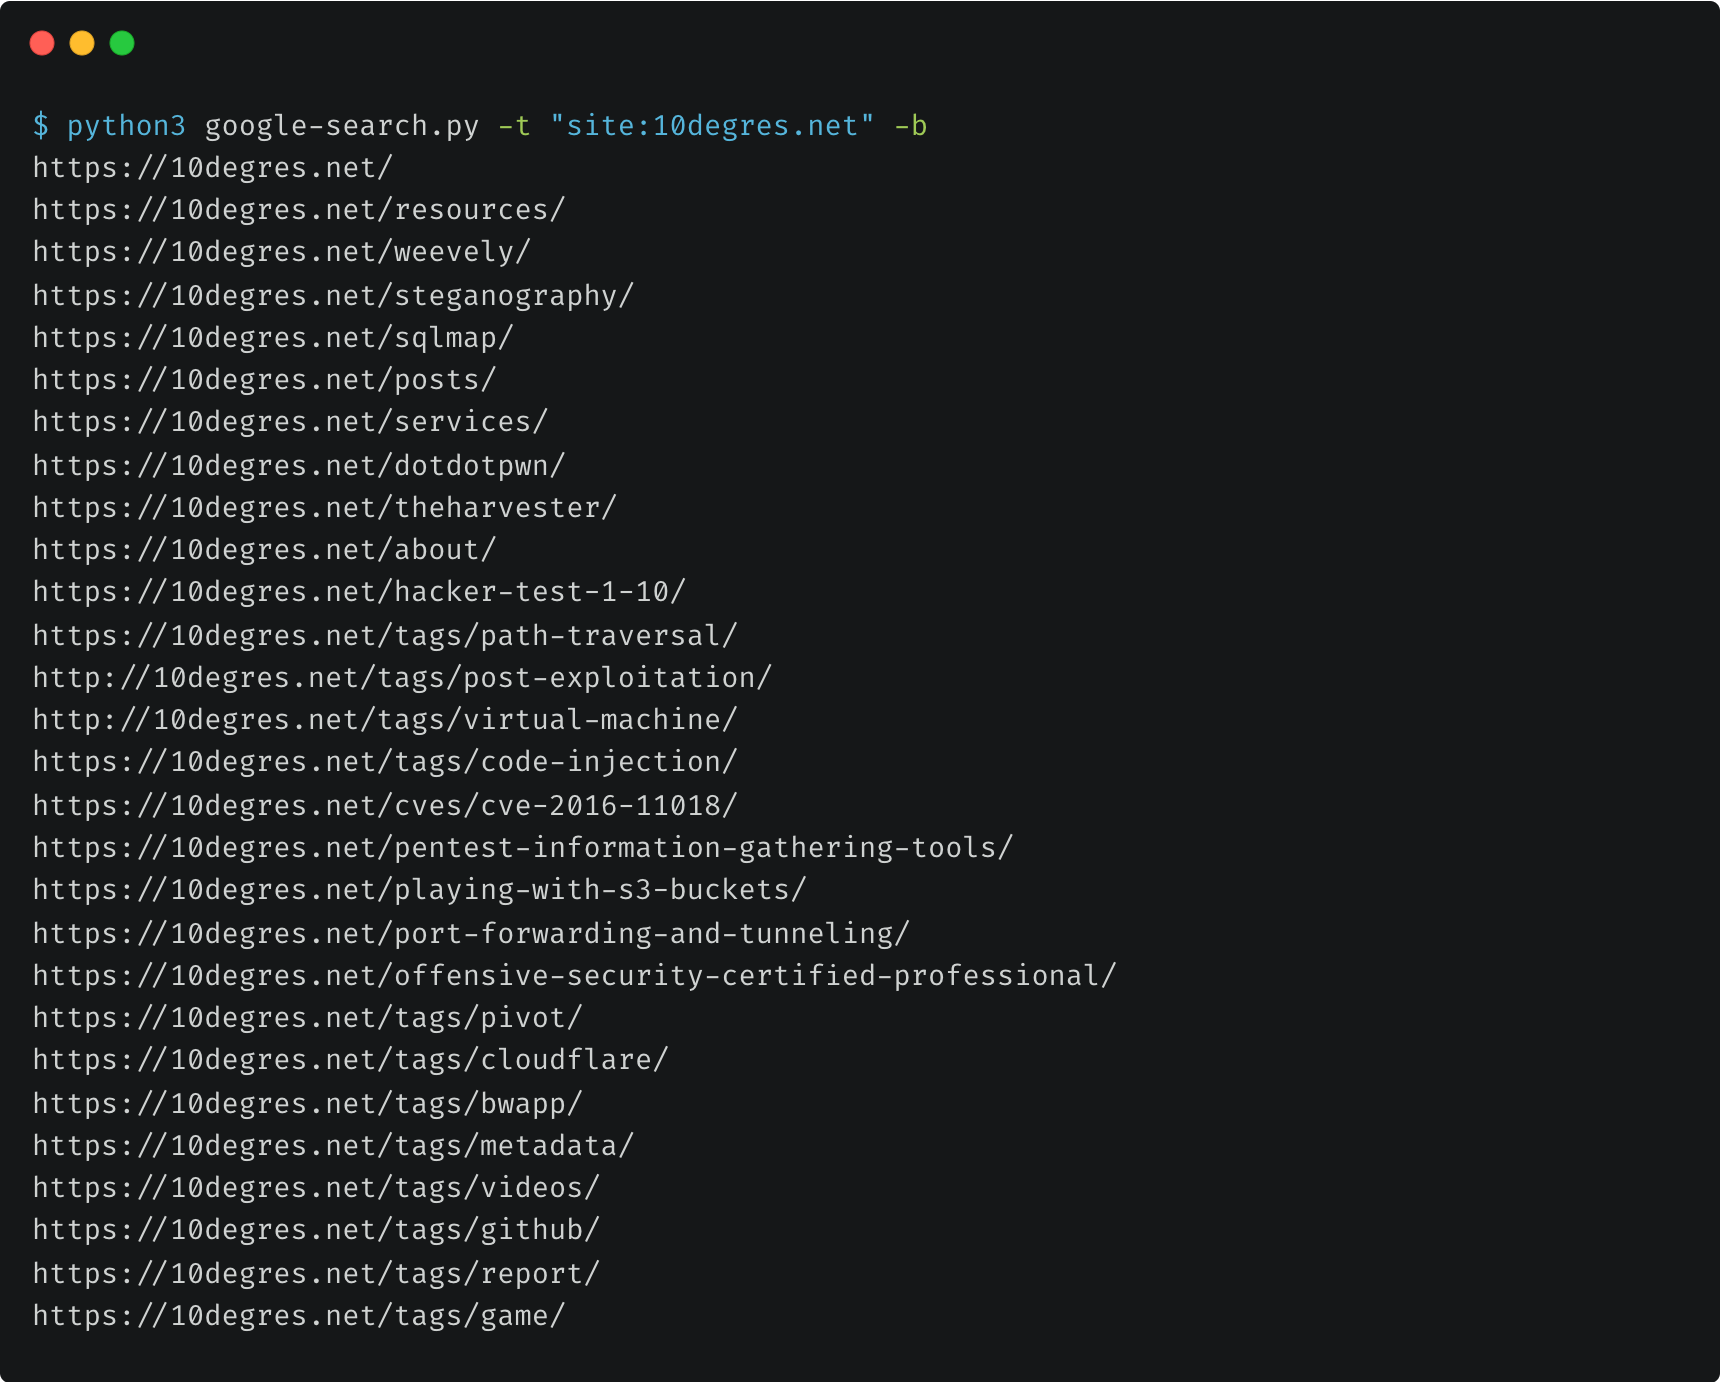
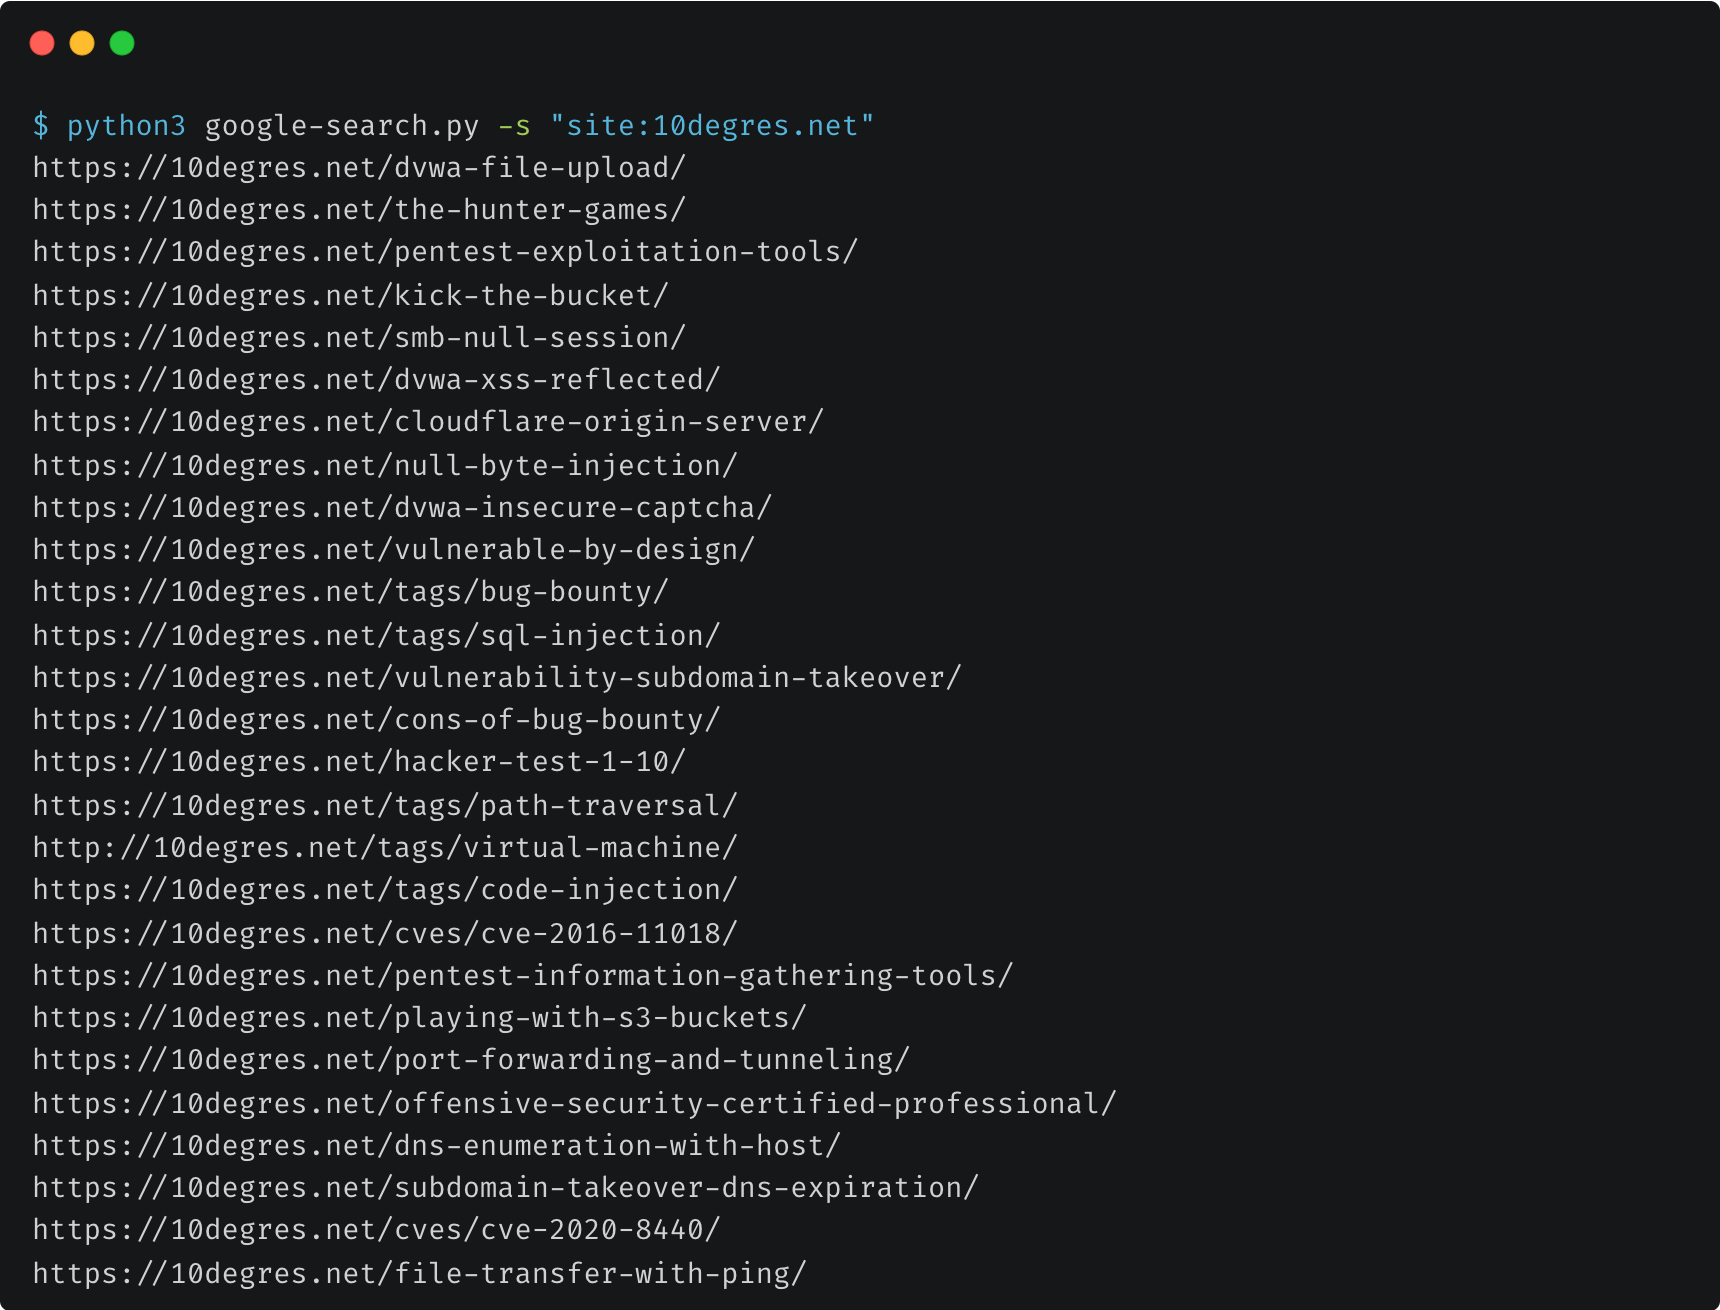
review

Changed region(s): [[0.0, 0.0916, 0.6471, 0.9771]]

diff --git a/README.md b/README.md
@@ -45,23 +45,15 @@ $ python3 google-search.py -t "site:10degres.net"
 ```
 
 ```
-usage: google-search.py [-h] [-b] [-f FILE] [-t TERM] [-d] [-e ENDPAGE] [-s STARTPAGE] [-c FBCOOKIE] [-o OUTPUT] [-n]
+usage: google-search.py [-h] [-s SEARCH] [-d] [-c FBCOOKIE]
 
 options:
   -h, --help            show this help message and exit
-  -b, --nobanner        disable the banner
-  -f FILE, --file FILE  source file that contains the dorks
-  -t TERM, --term TERM  search term
+  -s SEARCH, --search SEARCH
+                        search term
   -d, --decode          urldecode the results
-  -e ENDPAGE, --endpage ENDPAGE
-                        search end page, default 50
-  -s STARTPAGE, --startpage STARTPAGE
-                        search start page, default 0
   -c FBCOOKIE, --fbcookie FBCOOKIE
                         your facebook cookie
-  -o OUTPUT, --output OUTPUT
-                        output file
-  -n, --numbers-only    don't display the results but how many results where found
 ```
 
 ---
